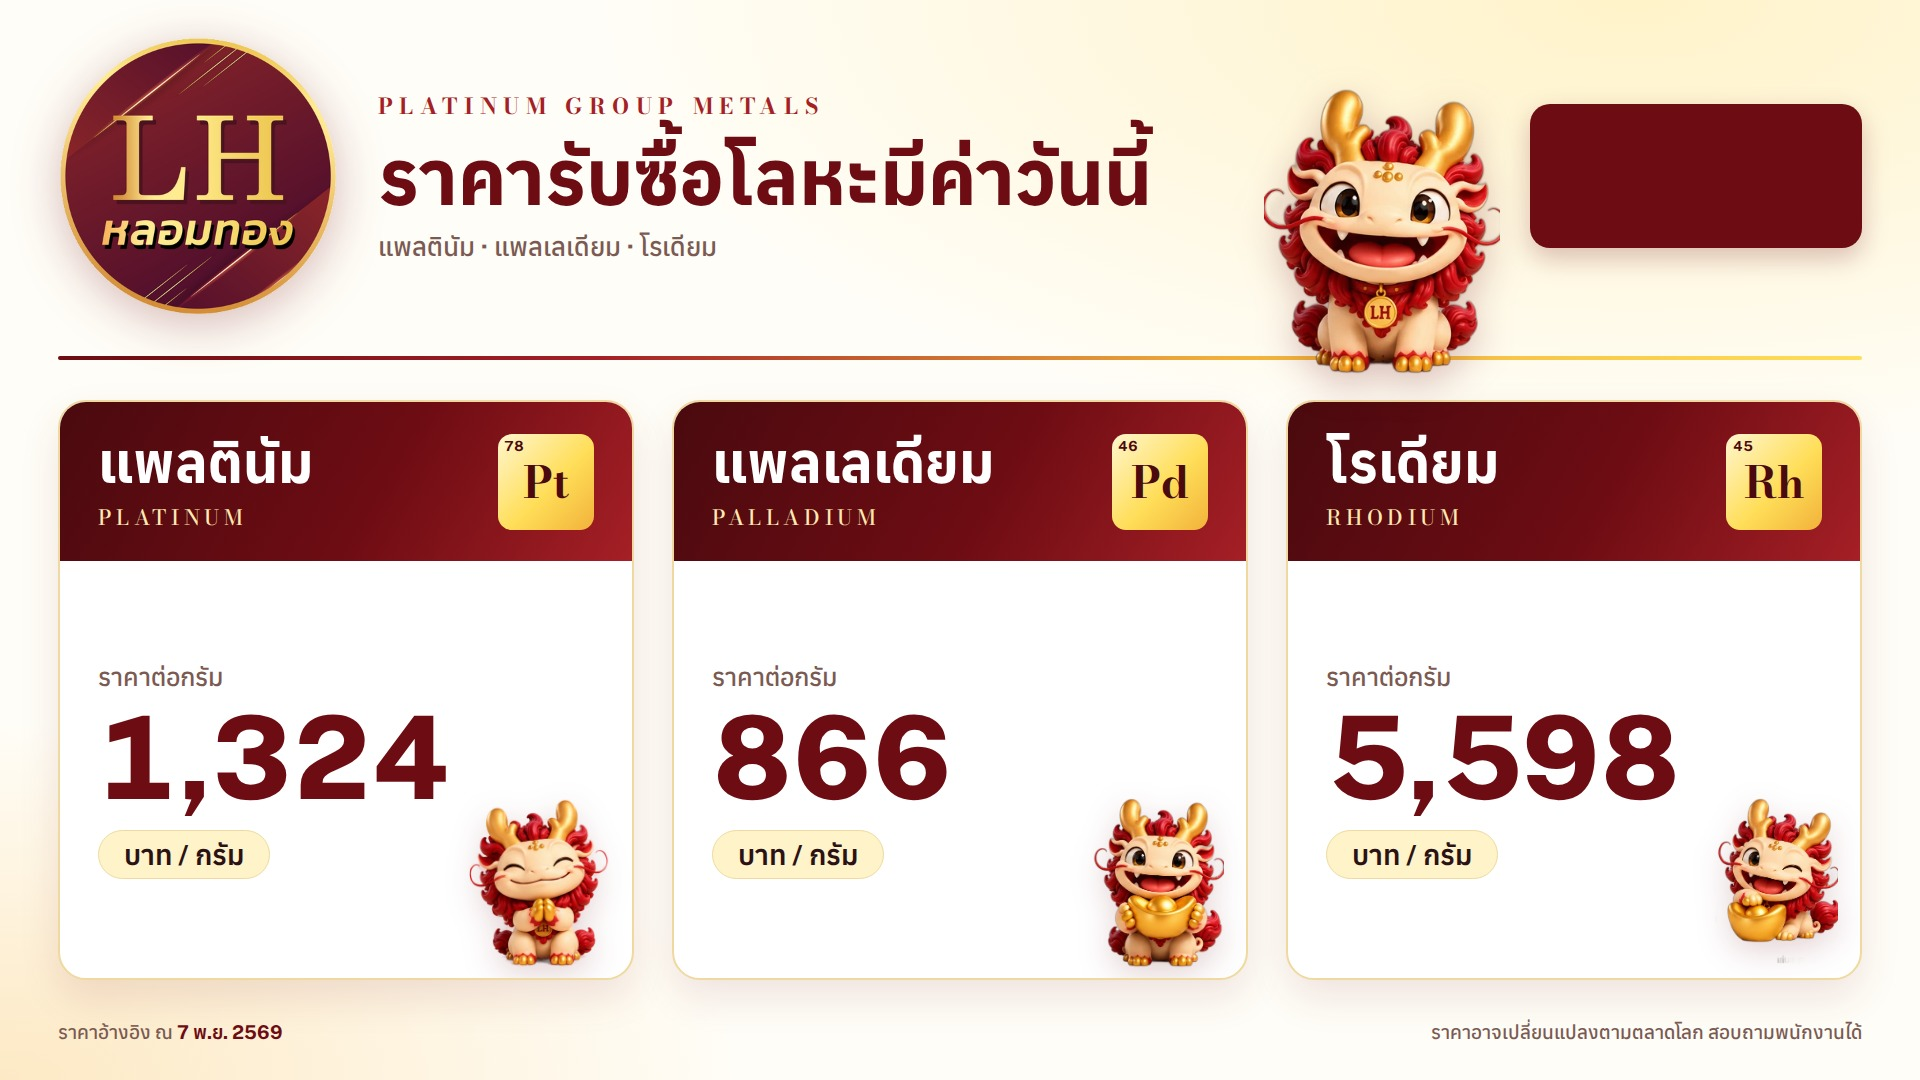
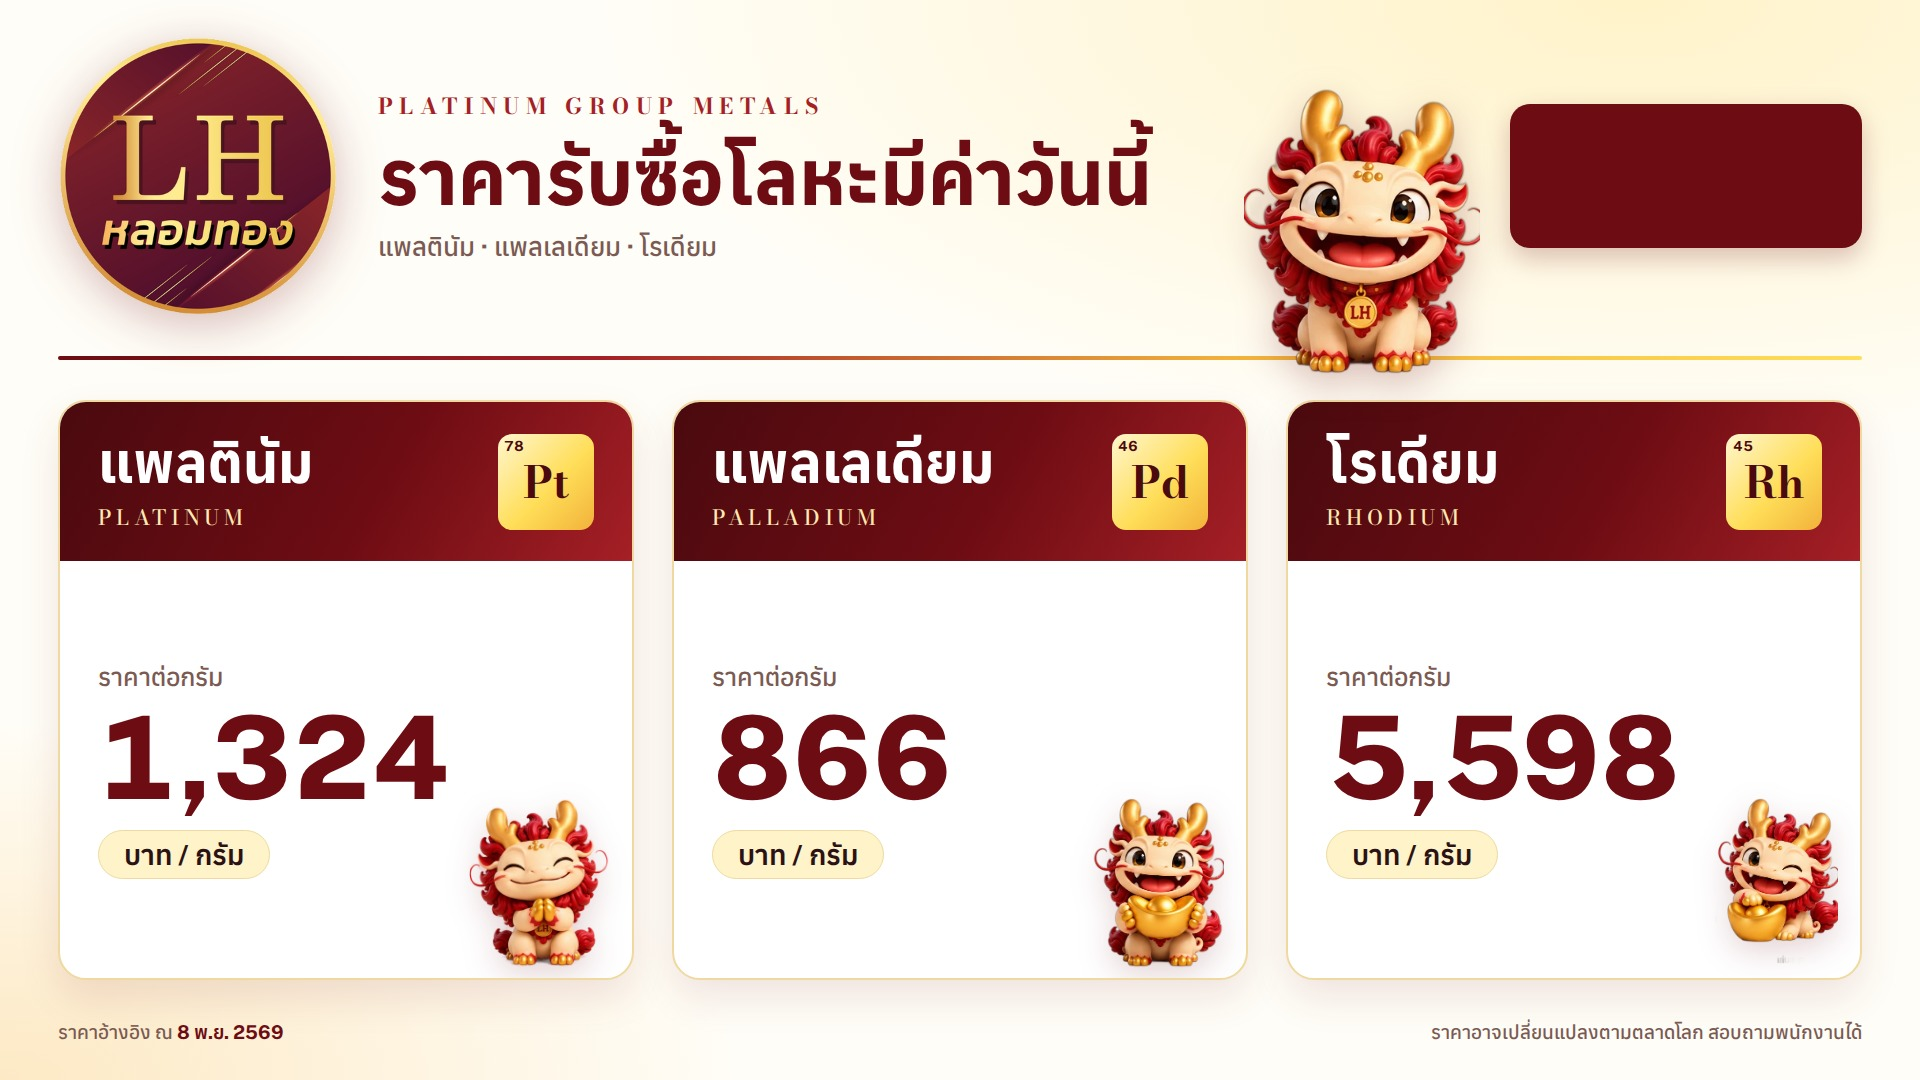
Update prices 2026-11-08

Changed region(s): [[0.625, 0.0611, 0.8125, 0.3667], [0.0938, 0.9472, 0.1562, 0.9778]]

diff --git a/board.html b/board.html
@@ -219,7 +219,7 @@ html{-webkit-text-size-adjust:100%;text-size-adjust:100%}
      ราคาแต่ละเกรด = ราคาเงินหลังหัก × เปอร์เซ็นต์ (99.99% ใช้ราคาเต็ม)
    showSilver = เปิด/ปิดหน้าราคาเงิน, rotateSeconds = เปลี่ยนหน้าทุกกี่วินาที */
 const CONFIG = {
-  asOf: "7 พ.ย. 2569",
+  asOf: "8 พ.ย. 2569",
   fx: 33.55,
   discount: 0.20,
   rotateSeconds: 15,
